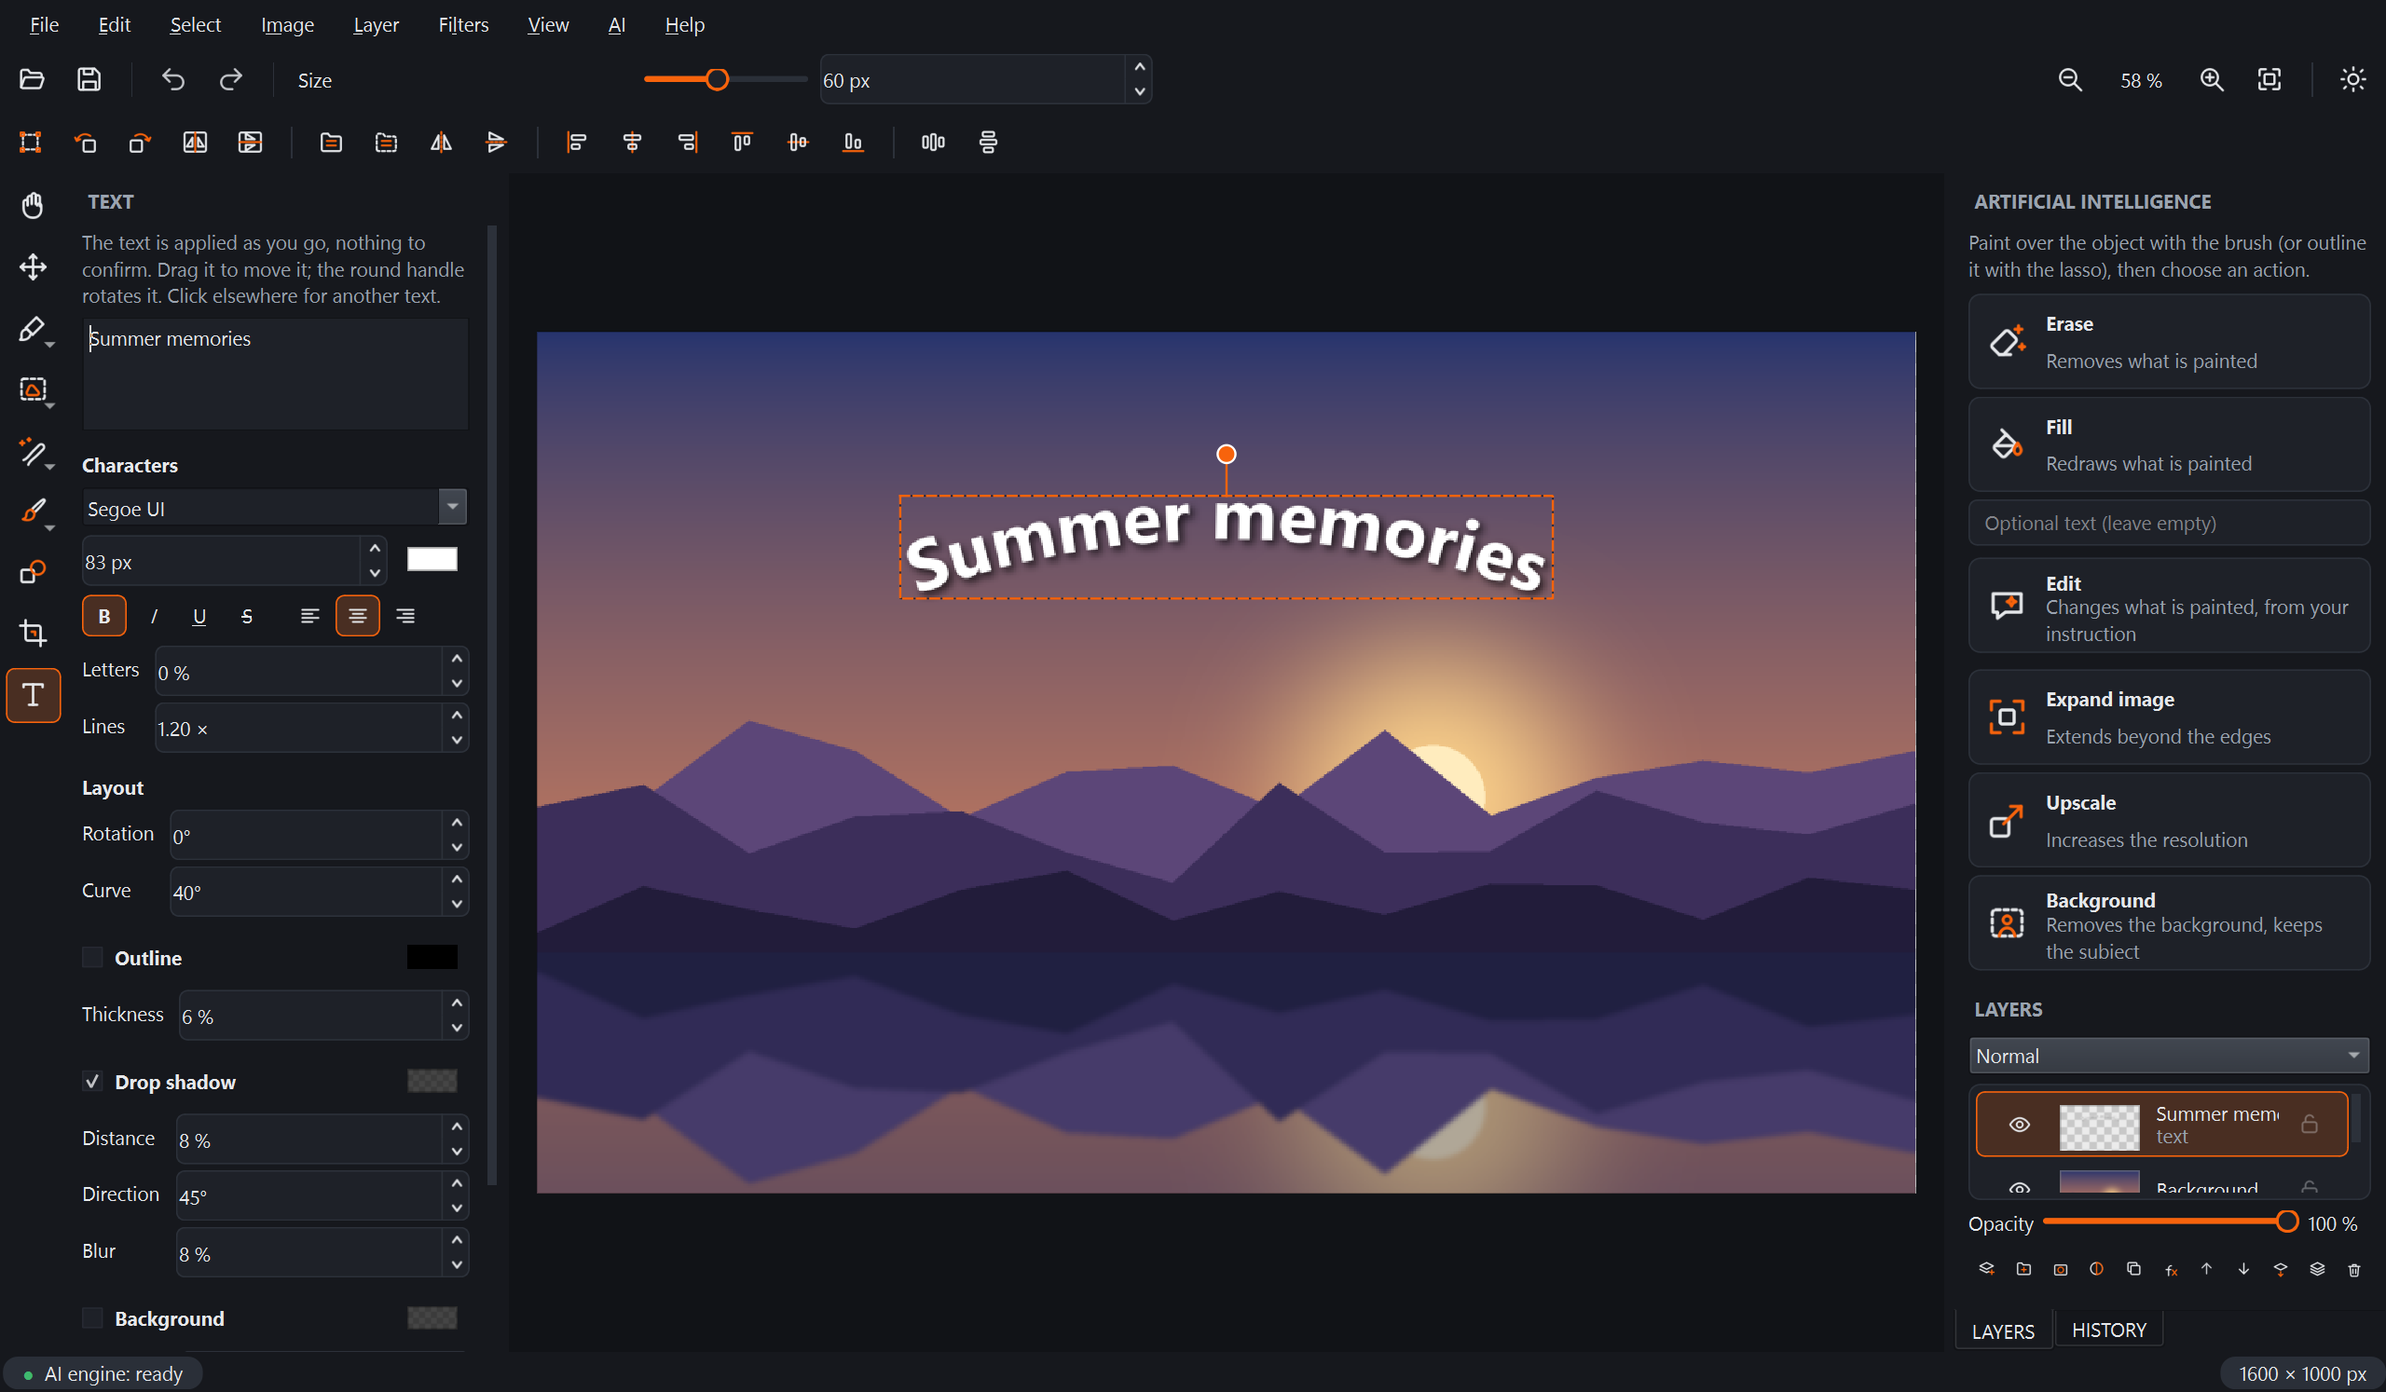
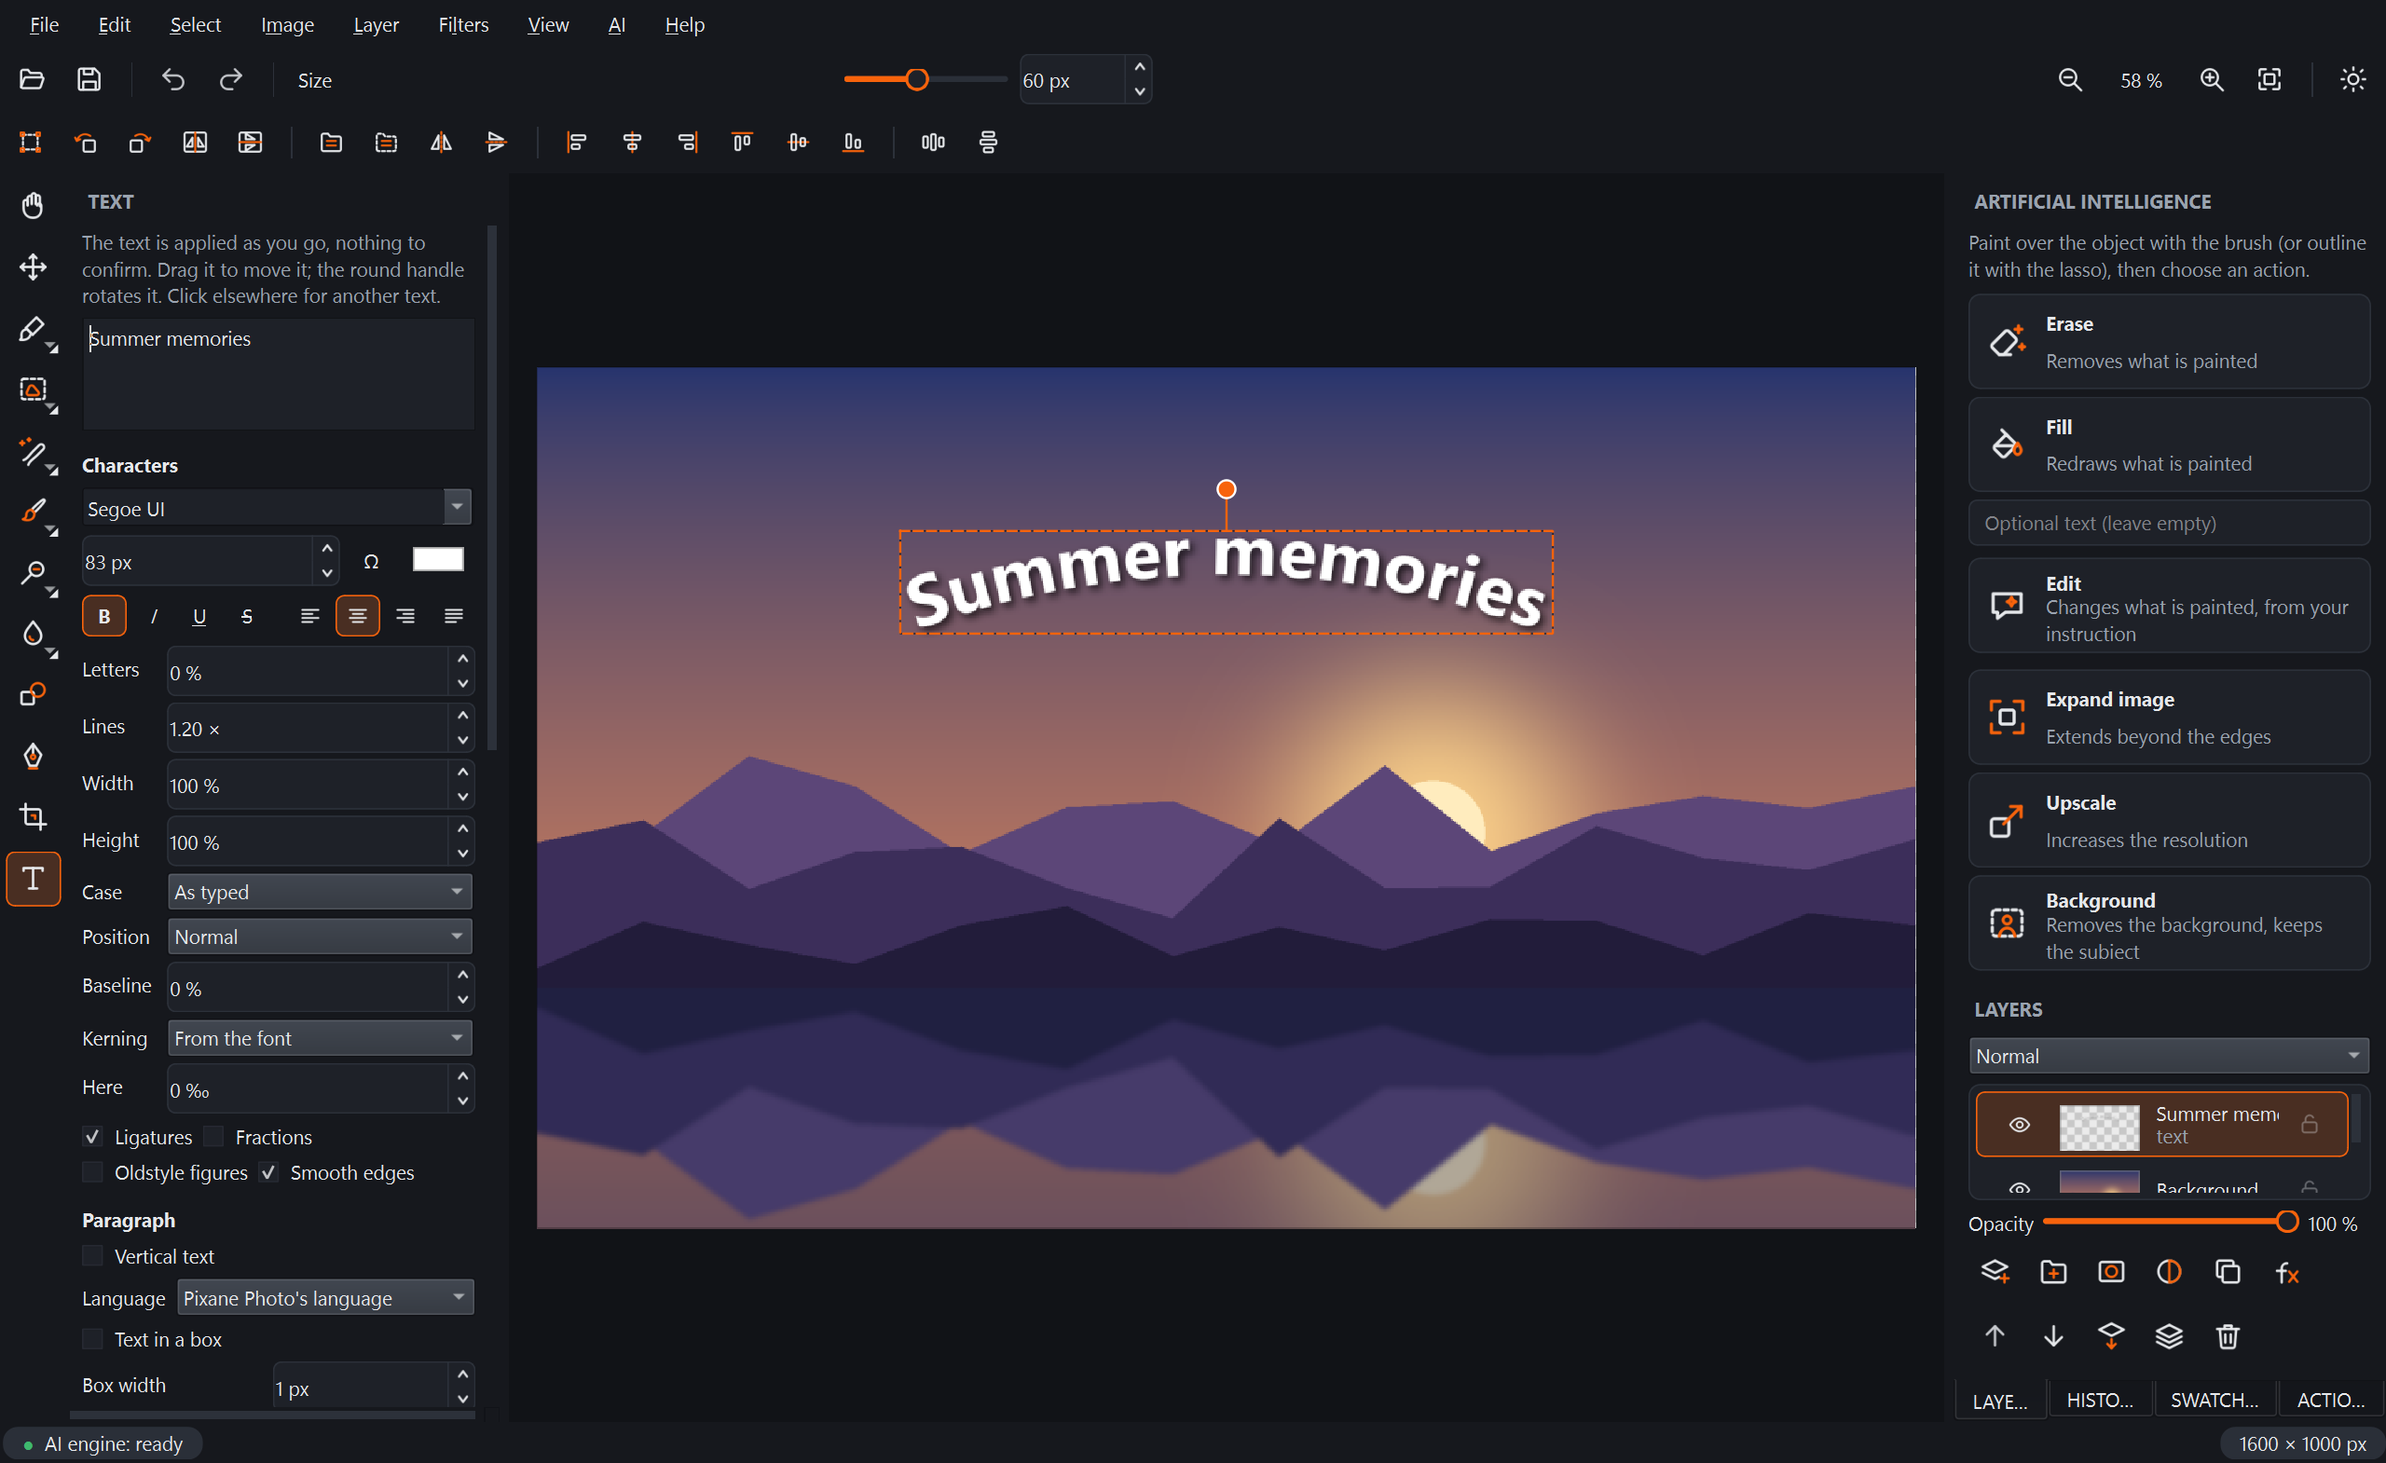
Version 0.23.0 : Pixane Photo

diff --git a/pixane/__init__.py b/pixane/__init__.py
@@ -1,2 +1,2 @@
-"""Pixane : éditeur photo avec effacement, remplissage, agrandissement et upscale par IA (ComfyUI)."""
-__version__ = "0.22.0"
+"""Pixane Photo : éditeur photo avec effacement, remplissage, agrandissement et upscale par IA (ComfyUI)."""
+__version__ = "0.23.0"

diff --git a/docs/FEUILLE_DE_ROUTE.md b/docs/FEUILLE_DE_ROUTE.md
@@ -52,7 +52,7 @@ Liste des étapes décidées avec Christophe. Cocher quand c'est fait (et mettre
 7. [ ] **Publication** : guide complet, licences (Flux Fill dev = non commercial), dépôt public ou installateur.
 
 ## Numérotation des versions (décidée le 08/11/2026)
-A.B.C : A = 0 tant que Pixane n'est pas fini (1.0.0 = première version finie) ; B = +1 pour un lot de nouvelles fonctions (C repart à 0) ; C = +1 pour des corrections seulement. Le numéro se change dans pixane\__init__.py avant de fabriquer l'installateur. Dernière version d'essai : 0.22.0 (version normale du 15/11/2026 : texte comme Photoshop (crénage, casse, cadre, déformation, tracé, style par lettre, glyphes, orthographe, césure, rechercher / remplacer), masque d'écrêtage, calque de pinceau modifiable, formes modifiables et Plume, nouveaux réglages et flous, Fluidité, Ctrl+T perspective / déformation, pinceaux de retouche, calques de remplissage, nuancier, actions, imprimer, RAW, mise à l'échelle d'après le contenu ; IA : créer une image, ciel, coloriser, lumière, flou selon la profondeur, supprimer les personnes, retouche portrait, harmoniser, Fond prolongé ; traduction rapide, durées mesurées sur le PC ; 0.21.0 (version normale du 14/11/2026 : trouver une police semblable (option à l'installation), Agrandir sans effet fantôme (aussi après Pleine définition) et bords abîmés mieux détectés, flèches du clavier avec Déplacer, aperçus (taille de l'image, zone de travail, nouvelle image), pinceaux ajoutés rangés en paquets ; corrections : vignettes des calques, police du panneau Texte ; 0.20.0 (préversion du 14/11/2026 : éditeur de dégradé à plusieurs couleurs, dégradé en direct et sur les lettres d'un texte, « Partir de celle-ci » (variantes d'une proposition), motifs (pot de peinture, tampon de motif, Incrustation de motif), styles de pinceaux prêts, pinceau jusqu'à 5000 px, traducteur dans l'installateur ; corrections : traducteur effacé par la mise à jour, gros fichiers de pinceaux, enregistrement .pixane ; 0.19.0 : Modifier avec une consigne (Kontext, sur la sélection, style et transparence gardés) et traducteur français → anglais facultatif ; pinceaux à forme (235 pinceaux et 87 motifs Krita, import .abr / .gbr / .gih / .bundle, réglages complets, pression de la tablette) ; meilleure version de chaque calque (réduire puis réagrandir sans perte) ; pot de peinture « Tous les calques » ; corrections : trous transparents remplis par Effacer / Remplir, message d'erreur d'Agrandir ; 0.18.0 : zoom dans la fenêtre des propositions : molette, glisser, double-clic, Ajuster / 100 %, même endroit d'une proposition à l'autre ; réduire un calque en qualité, sans grain ni flou de demi-pixel ; 0.17.1 : Upscale net : plus rien d'inventé dans les aplats, couleurs de l'origine gardées, force 0,25 proposée d'office pour une image graphique ; 0.17.0 : Upscale du calque choisi : plus net à sa taille, ou agrandi sans changer la taille de l'image ; 0.16.0 : barre d'accès rapide sous la barre du haut : Transformer, pivoter, retourner, grouper, symétries, aligner, répartir ; 0.15.0 : Ctrl+G groupe les calques choisis ; Calque > Aligner, Répartir, Retourner le calque, boutons dans la barre de Déplacer ; 0.14.1 : Supprimer (IA) travaille directement dans le calque choisi, comme Effacer ; 0.14.0 : boutons retour / suivant de la souris = Annuler / Rétablir ; pendant un travail pas encore validé (Transformer, Agrandir, Recadrer), geste par geste ; 0.13.4 : correction : plus de message d'erreur après Exporter pour le web ; 0.13.3 : correction : Agrandir avec du vide : plus de liseré clair à la jonction, ronds rouges pris en compte ; 0.13.2 : correction : Agrandir part de la photo du calque choisi, sans les autres calques ni les traits fins isolés ; 0.13.1 : Agrandir une image entourée de vide : le cadre part de la photo, tu choisis jusqu'où l'IA la prolonge ; 0.12.0 : outil Sélection de texte (Y) : cadre autour d'un texte, lettres seules avec les traits fins, corrections Alt / Maj + clic, Lettres pleines ; 0.11.1 : correction : les zones transparentes n'ajoutent plus de noir aux résultats de l'IA ; 0.11.0 : résultat de l'IA dans le calque choisi, sans déborder de la sélection ; option « nouveau calque » ; 0.10.0 : ComfyUI déjà installé : Pixane ne télécharge que ce qui lui manque, fenêtre Compléter le moteur IA ; 0.9.0 : Agrandir en pleine définition : l'ajout redessiné à la vraie taille par morceaux, avec le grain de la photo ; rotation au degré près : cases Largeur / Hauteur / Angle dans Transformer, Image > Pivoter selon un angle ; 0.8.0 : plusieurs calques choisis avec Ctrl+clic / Maj+clic, fusion des calques choisis, menu du clic droit sur les calques, aperçu de la police sur le texte de la photo, icône plus grande, « Pour qui ? » ; 0.7.0 : vrais calques : les pixels hors de la feuille sont gardés, Image > Tout faire apparaître ; 0.6.1 : fond et mode gardés dans les formats enregistrés ; 0.6.0 : cadre à poignées de l'outil Déplacer, Exporter sous, flèches pour bouger la sélection, polices avec aperçu du texte ; 0.5.0 : Nouvelle image avec formats tout prêts, unités, résolution, mode, fond perdu ; taille de la zone de travail ; niveaux de gris ; export CMJN et aperçu de l'impression).
+A.B.C : A = 0 tant que Pixane n'est pas fini (1.0.0 = première version finie) ; B = +1 pour un lot de nouvelles fonctions (C repart à 0) ; C = +1 pour des corrections seulement. Le numéro se change dans pixane\__init__.py avant de fabriquer l'installateur. Dernière version d'essai : 0.23.0 (version normale du 15/11/2026 : Pixane devient Pixane Photo, premier logiciel de la Suite Pixane (dépôt pixane-suite/photo, dossier …\Pixane\Pixane Photo, nouveau logo, Licence Pixane 1.3 commune à la suite) ; 0.22.0 (version normale du 15/11/2026 : texte comme Photoshop (crénage, casse, cadre, déformation, tracé, style par lettre, glyphes, orthographe, césure, rechercher / remplacer), masque d'écrêtage, calque de pinceau modifiable, formes modifiables et Plume, nouveaux réglages et flous, Fluidité, Ctrl+T perspective / déformation, pinceaux de retouche, calques de remplissage, nuancier, actions, imprimer, RAW, mise à l'échelle d'après le contenu ; IA : créer une image, ciel, coloriser, lumière, flou selon la profondeur, supprimer les personnes, retouche portrait, harmoniser, Fond prolongé ; traduction rapide, durées mesurées sur le PC ; 0.21.0 (version normale du 14/11/2026 : trouver une police semblable (option à l'installation), Agrandir sans effet fantôme (aussi après Pleine définition) et bords abîmés mieux détectés, flèches du clavier avec Déplacer, aperçus (taille de l'image, zone de travail, nouvelle image), pinceaux ajoutés rangés en paquets ; corrections : vignettes des calques, police du panneau Texte ; 0.20.0 (préversion du 14/11/2026 : éditeur de dégradé à plusieurs couleurs, dégradé en direct et sur les lettres d'un texte, « Partir de celle-ci » (variantes d'une proposition), motifs (pot de peinture, tampon de motif, Incrustation de motif), styles de pinceaux prêts, pinceau jusqu'à 5000 px, traducteur dans l'installateur ; corrections : traducteur effacé par la mise à jour, gros fichiers de pinceaux, enregistrement .pixane ; 0.19.0 : Modifier avec une consigne (Kontext, sur la sélection, style et transparence gardés) et traducteur français → anglais facultatif ; pinceaux à forme (235 pinceaux et 87 motifs Krita, import .abr / .gbr / .gih / .bundle, réglages complets, pression de la tablette) ; meilleure version de chaque calque (réduire puis réagrandir sans perte) ; pot de peinture « Tous les calques » ; corrections : trous transparents remplis par Effacer / Remplir, message d'erreur d'Agrandir ; 0.18.0 : zoom dans la fenêtre des propositions : molette, glisser, double-clic, Ajuster / 100 %, même endroit d'une proposition à l'autre ; réduire un calque en qualité, sans grain ni flou de demi-pixel ; 0.17.1 : Upscale net : plus rien d'inventé dans les aplats, couleurs de l'origine gardées, force 0,25 proposée d'office pour une image graphique ; 0.17.0 : Upscale du calque choisi : plus net à sa taille, ou agrandi sans changer la taille de l'image ; 0.16.0 : barre d'accès rapide sous la barre du haut : Transformer, pivoter, retourner, grouper, symétries, aligner, répartir ; 0.15.0 : Ctrl+G groupe les calques choisis ; Calque > Aligner, Répartir, Retourner le calque, boutons dans la barre de Déplacer ; 0.14.1 : Supprimer (IA) travaille directement dans le calque choisi, comme Effacer ; 0.14.0 : boutons retour / suivant de la souris = Annuler / Rétablir ; pendant un travail pas encore validé (Transformer, Agrandir, Recadrer), geste par geste ; 0.13.4 : correction : plus de message d'erreur après Exporter pour le web ; 0.13.3 : correction : Agrandir avec du vide : plus de liseré clair à la jonction, ronds rouges pris en compte ; 0.13.2 : correction : Agrandir part de la photo du calque choisi, sans les autres calques ni les traits fins isolés ; 0.13.1 : Agrandir une image entourée de vide : le cadre part de la photo, tu choisis jusqu'où l'IA la prolonge ; 0.12.0 : outil Sélection de texte (Y) : cadre autour d'un texte, lettres seules avec les traits fins, corrections Alt / Maj + clic, Lettres pleines ; 0.11.1 : correction : les zones transparentes n'ajoutent plus de noir aux résultats de l'IA ; 0.11.0 : résultat de l'IA dans le calque choisi, sans déborder de la sélection ; option « nouveau calque » ; 0.10.0 : ComfyUI déjà installé : Pixane ne télécharge que ce qui lui manque, fenêtre Compléter le moteur IA ; 0.9.0 : Agrandir en pleine définition : l'ajout redessiné à la vraie taille par morceaux, avec le grain de la photo ; rotation au degré près : cases Largeur / Hauteur / Angle dans Transformer, Image > Pivoter selon un angle ; 0.8.0 : plusieurs calques choisis avec Ctrl+clic / Maj+clic, fusion des calques choisis, menu du clic droit sur les calques, aperçu de la police sur le texte de la photo, icône plus grande, « Pour qui ? » ; 0.7.0 : vrais calques : les pixels hors de la feuille sont gardés, Image > Tout faire apparaître ; 0.6.1 : fond et mode gardés dans les formats enregistrés ; 0.6.0 : cadre à poignées de l'outil Déplacer, Exporter sous, flèches pour bouger la sélection, polices avec aperçu du texte ; 0.5.0 : Nouvelle image avec formats tout prêts, unités, résolution, mode, fond perdu ; taille de la zone de travail ; niveaux de gris ; export CMJN et aperçu de l'impression).
 
 ## Idées notées en passant
 

diff --git a/docs/A_PUBLIER.md b/docs/A_PUBLIER.md
@@ -4,28 +4,10 @@ Carnet tenu à chaque modification (consigne de Christophe, 11/11/2026) : on ne 
 plusieurs modifications. Ce jour-là, tout ce qui est listé ici sert à mettre à jour le README, les notes de version,
 etc. ; puis le carnet est vidé (en gardant la « Dernière publication » à jour).
 
-**Dernière publication : 0.22.0** (15/11/2026, GitHub v0.22.0, version normale).
-Les installateurs fabriqués depuis portent toujours le numéro 0.22.0 (non publiés).
+**Dernière publication : 0.23.0** (15/11/2026, GitHub pixane-suite/photo v0.23.0, version normale).
+Les installateurs fabriqués depuis portent toujours le numéro 0.23.0 (non publiés).
 
 ## Nouveautés
-
-- **Pixane devient Pixane Photo**, premier logiciel de la **Suite Pixane** (dépôt GitHub transféré le 15/11/2026 :
-  github.com/pixane-suite/photo ; l'ancienne adresse redirige, la recherche de mise à jour marche). Nom changé
-  partout (fenêtre, À propos avec « Fait partie de la Suite Pixane », messages, guide, README, installateur
-  `Pixane-Photo-Setup-…`, raccourci « Pixane Photo »). Inchangés : projets .pixane, réglages, dossier
-  %LOCALAPPDATA%\Pixane (commun à la suite), moteur IA, traducteur.
-- **Dossier d'installation** : `…\Pixane\Pixane Photo` (le dossier Pixane réunit la suite). Une installation à
-  l'ancienne place (`…\Pixane`) y est déplacée à la mise à jour ; épingle de la barre des tâches et raccourci du
-  Bureau suivis ; fichiers personnels laissés dans l'ancien dossier gardés.
-- **Nouveau logo** (famille de la suite) : le « P en pixels » orange-rose avec un symbole photo (montagne et soleil)
-  à la place de l'étincelle ; icône, images de l'installateur. L'emblème de la suite (P sans symbole) reste sur
-  l'image de la licence (`logo\suite-pixane.svg`).
-- **Licence Pixane 1.3**, commune à toute la Suite Pixane (accord de Christophe le 15/11/2026) : nouvel article 0
-  « Champ d'application » (chaque logiciel de la suite publié sous la Licence Pixane ; les versions publiées sous
-  la 1.2 restent régies par elle) ; « Pixane » remplacé par « le logiciel » ; conditions inchangées. À propos,
-  fenêtre Licence, README, guide, LICENCES_TIERS.
-- À faire à la publication : capture du README (`docs/screenshots`) avec le nouveau titre ; vérifier la page de
-  l'organisation pixane-suite.
 
 ## Corrections
 
